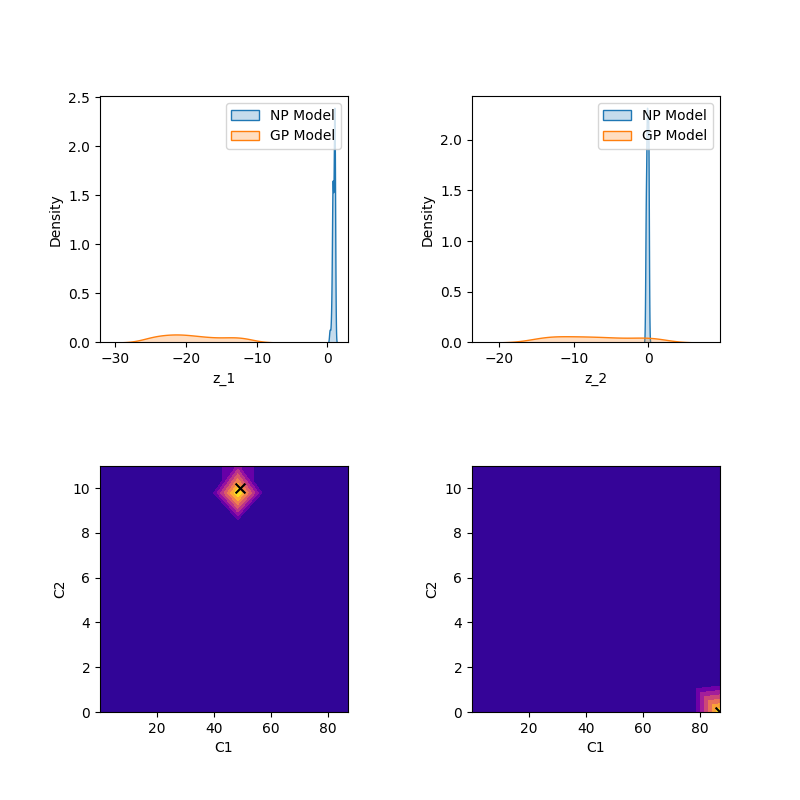
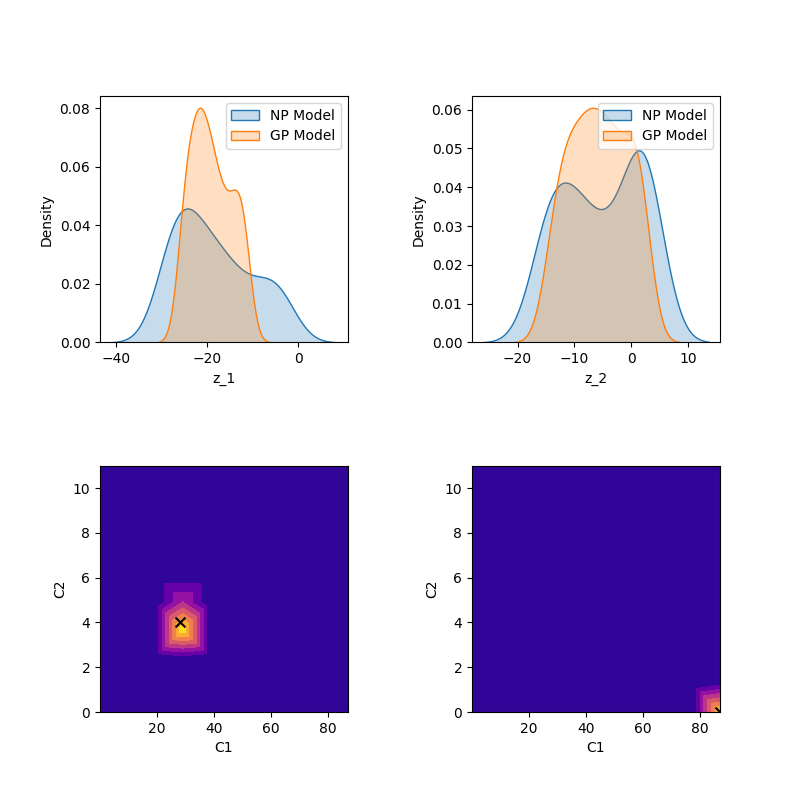
add torch optimize func for gp models

diff --git a/models/gp.py b/models/gp.py
@@ -18,20 +18,22 @@ from torch import Tensor
 import pdb
 
 
-def fit_gp_model(train_x, train_y, model, mll, **kwargs):
+def fit_gp_model(model, mll, **kwargs):
     num_epochs = kwargs.pop("num_epochs", 100)
     optimizer = torch.optim.Adam(model.parameters(), lr=kwargs.pop("lr", 1e-3))
     model.train()
     for epoch in range(num_epochs):
         optimizer.zero_grad()
-        output = model(train_x)
-        loss = - mll(output, train_y)
+        output = model(*model.train_inputs)
+        loss = -mll(output, model.train_targets)
         loss.backward()
-        if (epoch + 1) % 10 == 0:
+        if (epoch + 1) % 100 == 0:
             print(
                 f"Epoch {epoch+1:>3}/{num_epochs} - Loss: {loss.item():>4.3f} "
-                f"noise: {model.likelihood.noise.item():>4.3f}" 
             )
+            if kwargs.pop("verbose", 1)>1:
+                for name, param in model.named_parameters():
+                    print(f"{name:>3} : value: {param.data}")
         optimizer.step()
 
 class SingleTaskGP(Model):
@@ -117,7 +119,7 @@ class MultiTaskGP(Model):
 
         self.gp = ModelListGP(*models)
         self.mll = SumMarginalLogLikelihood(self.gp.likelihood, self.gp).to(train_x)
-        fit_gp_model(train_x, train_y, self.gp, self.mll, **kwargs)
+        fit_gp_model(self.gp, self.mll, **kwargs)
 
     def get_covaraince(self, x, xp):  
         cov = torch.zeros((1,len(xp))).to(xp)

diff --git a/peptoid_goldnano_gp.py b/peptoid_goldnano_gp.py
@@ -21,7 +21,7 @@ device = torch.device('cuda' if torch.cuda.is_available() else 'cpu')
 torch.set_default_dtype(torch.double)
 torch.manual_seed(2458)
 
-ITERATION = 0
+ITERATION = 3
 # hyper-parameters
 BATCH_SIZE = 11
 
@@ -85,7 +85,7 @@ def run_iteration(comps_all, spectra_all):
     train_y = featurize_spectra(spectra_all)
     model_start = time.time()
     normalized_x = normalize(train_x, bounds).to(train_x)
-    gp_model.fit_and_save(normalized_x, train_y, PLOT_DIR, num_epochs=100, lr=1e-3)
+    gp_model.fit_and_save(normalized_x, train_y, PLOT_DIR, num_epochs=1000, lr=1e-1)
     model_end = time.time()
     print("fit time", model_end - model_start)
 
@@ -142,7 +142,7 @@ plot_iteration(ITERATION, test_function, train_x, gp_model, np_model, acquisitio
 plt.savefig(PLOT_DIR+'itr_%d.png'%ITERATION)
 plt.close()
 plot_gpmodel_expt(test_function, gp_model, np_model, PLOT_DIR+'gpmodel_itr_%d.png'%ITERATION)
-plot_phasemap_pred(test_function, gp_model, np_model, PLOT_DIR+'compare_spectra_pred.png')
+plot_phasemap_pred(test_function, gp_model, np_model, PLOT_DIR+'compare_spectra_pred_%d.png'%ITERATION)
 
 torch.save(train_x.cpu(), SAVE_DIR+'gp_train_x.pt')
 torch.save(gp_model.state_dict(), SAVE_DIR+'gp_model.pt')
